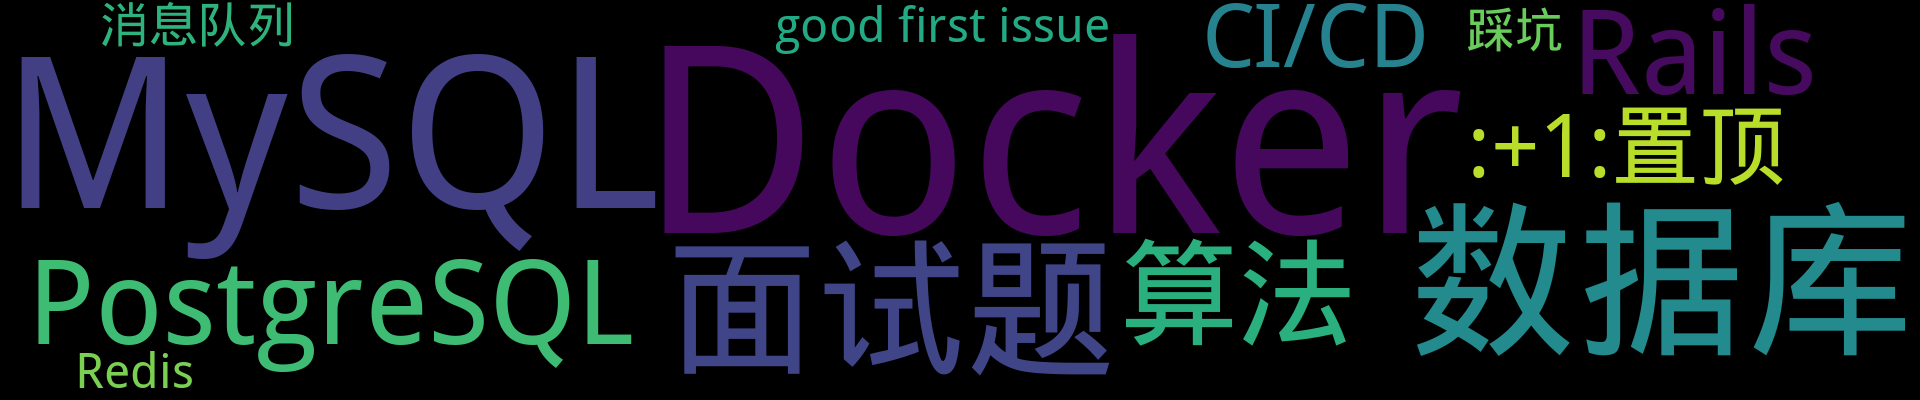
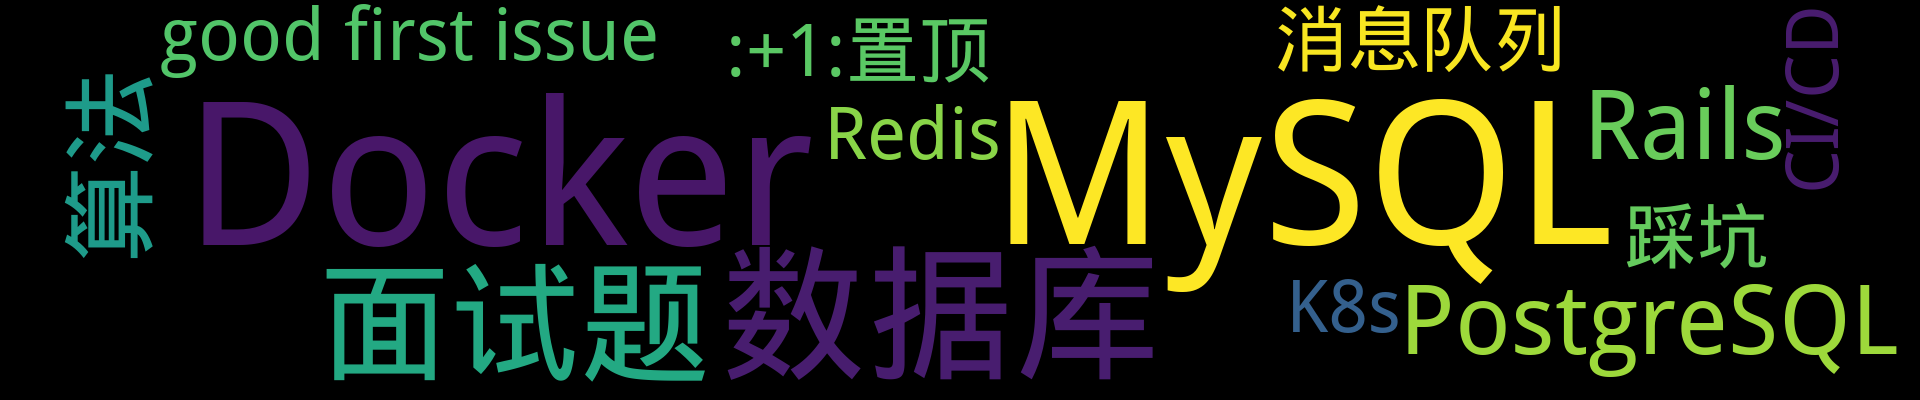
Update from Github Action

diff --git a/README.md b/README.md
@@ -1,9 +1,9 @@
 
 
 <p align='center'>
-    <img src="https://badgen.net/badge/labels/16"/>
+    <img src="https://badgen.net/badge/labels/17"/>
     <img src="https://badgen.net/github/issues/iamtomas/ghiblog"/>
-    <img src="https://badgen.net/badge/last-commit/2022-02-14 15:25:40"/>
+    <img src="https://badgen.net/badge/last-commit/2022-02-15 15:52:15"/>
     <img src="https://badgen.net/github/forks/iamtomas/ghiblog"/>
     <img src="https://badgen.net/github/stars/iamtomas/ghiblog"/>
     <img src="https://badgen.net/github/watchers/iamtomas/ghiblog"/>
@@ -20,6 +20,20 @@
 ## 置顶 :thumbsup: 
 - [基于Github Action自动生成并更新GitHub Issue博客的ReadMe](https://github.com/iamtomas/note/issues/1)  <sup>0 :speech_balloon:</sup>  	 
 ## 最新 :new: 
+
+#### [Kubernetes入门一](https://github.com/iamtomas/note/issues/27) <sup>0 :speech_balloon:</sup> 	 2022-02-15 15:51:43
+
+:label: : [K8s](https://github.com/iamtomas/ghiblog/labels/K8s)
+
+K8s概念图
+
+<img width="478" alt="image" src="https://user-images.githubusercontent.com/83901620/154097970-9161f696-fb8a-4ae5-93ba-b5b2d3c985bb.png">
+
+
+[更多>>>](https://github.com/iamtomas/note/issues/27)
+
+---
+
 
 #### [Docker入门二](https://github.com/iamtomas/note/issues/26) <sup>0 :speech_balloon:</sup> 	 2022-02-14 15:25:15
 
@@ -78,17 +92,6 @@ oh-my-zsh的配置文件为.zshrc，而默认shell(bash)的配置文件为.bash_
 ---
 
 
-#### [Docker Demo（进阶）](https://github.com/iamtomas/note/issues/22) <sup>0 :speech_balloon:</sup> 	 2022-01-28 08:56:41
-
-:label: : [Docker](https://github.com/iamtomas/ghiblog/labels/Docker)
-
-
-
-[更多>>>](https://github.com/iamtomas/note/issues/22)
-
----
-
-
 ## 分类  :card_file_box: 
 
 <details open="open">
@@ -136,6 +139,14 @@ oh-my-zsh的配置文件为.zshrc，而默认shell(bash)的配置文件为.bash_
 <summary>good first issue	<sup>1:newspaper:</sup></summary>
 
 - [基于Github Action自动生成并更新GitHub Issue博客的ReadMe](https://github.com/iamtomas/note/issues/1)  <sup>0 :speech_balloon:</sup>  	 
+
+
+</details>
+
+<details>
+<summary>K8s	<sup>1:newspaper:</sup></summary>
+
+- [Kubernetes入门一](https://github.com/iamtomas/note/issues/27)  <sup>0 :speech_balloon:</sup>  	 
 
 
 </details>
